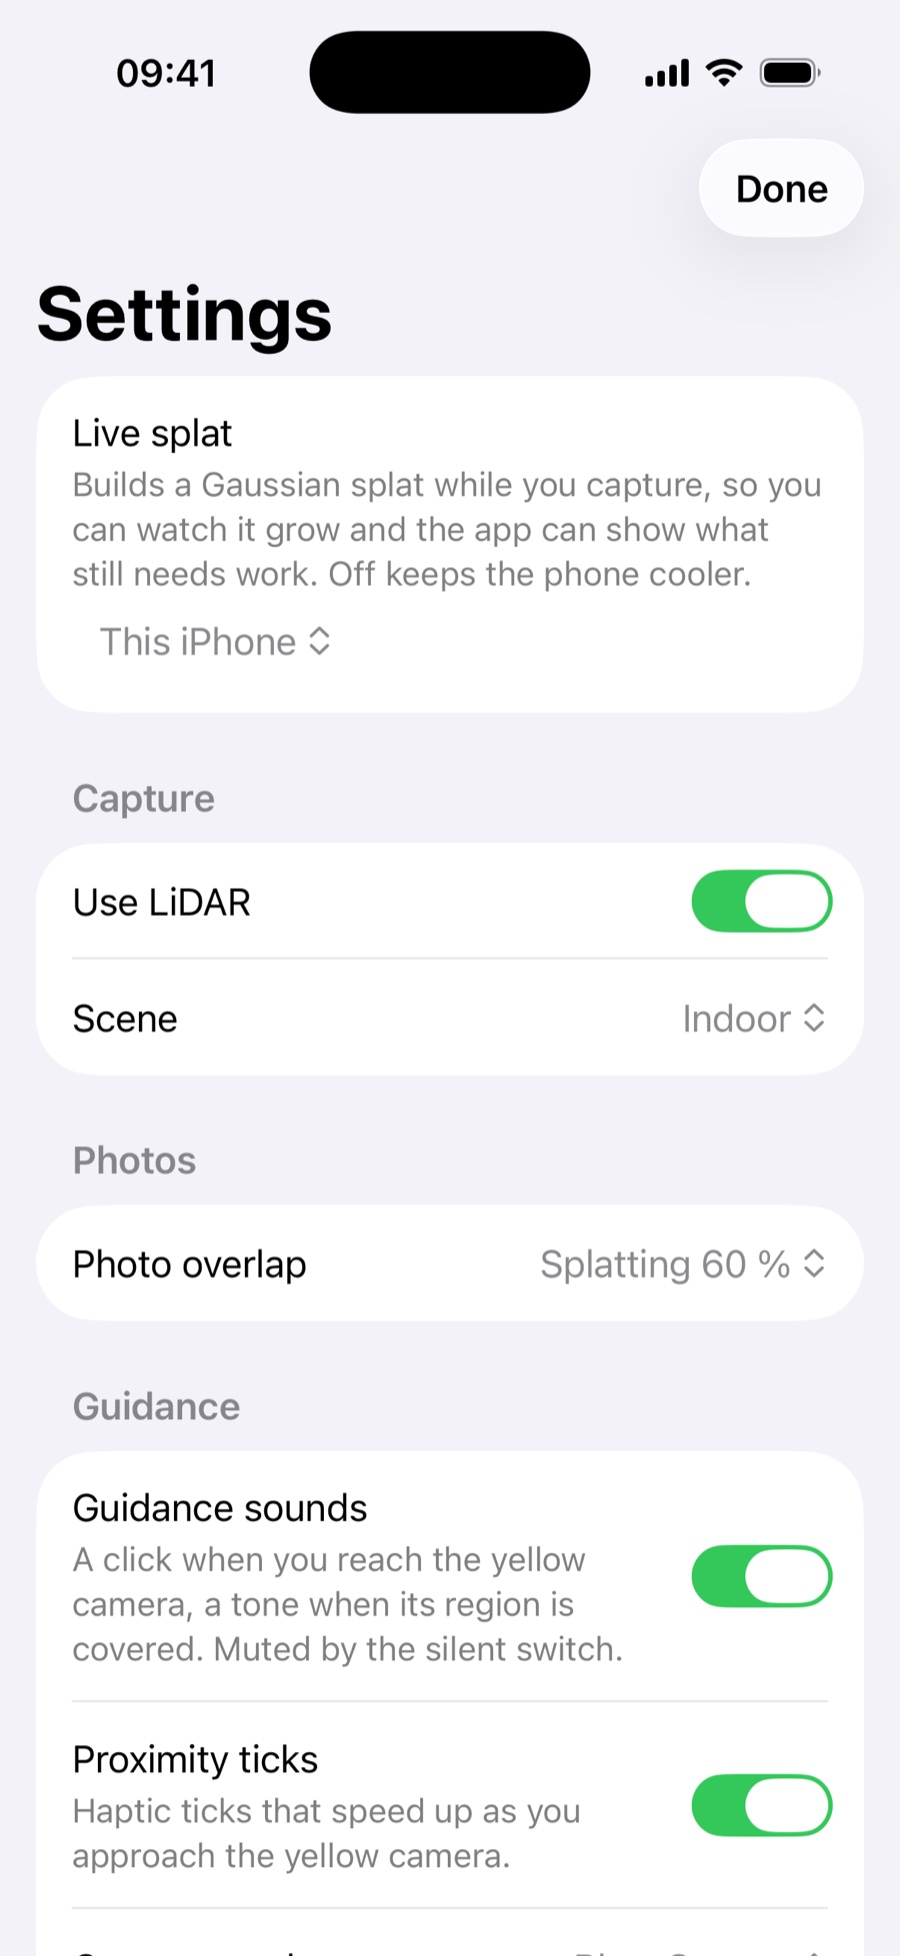
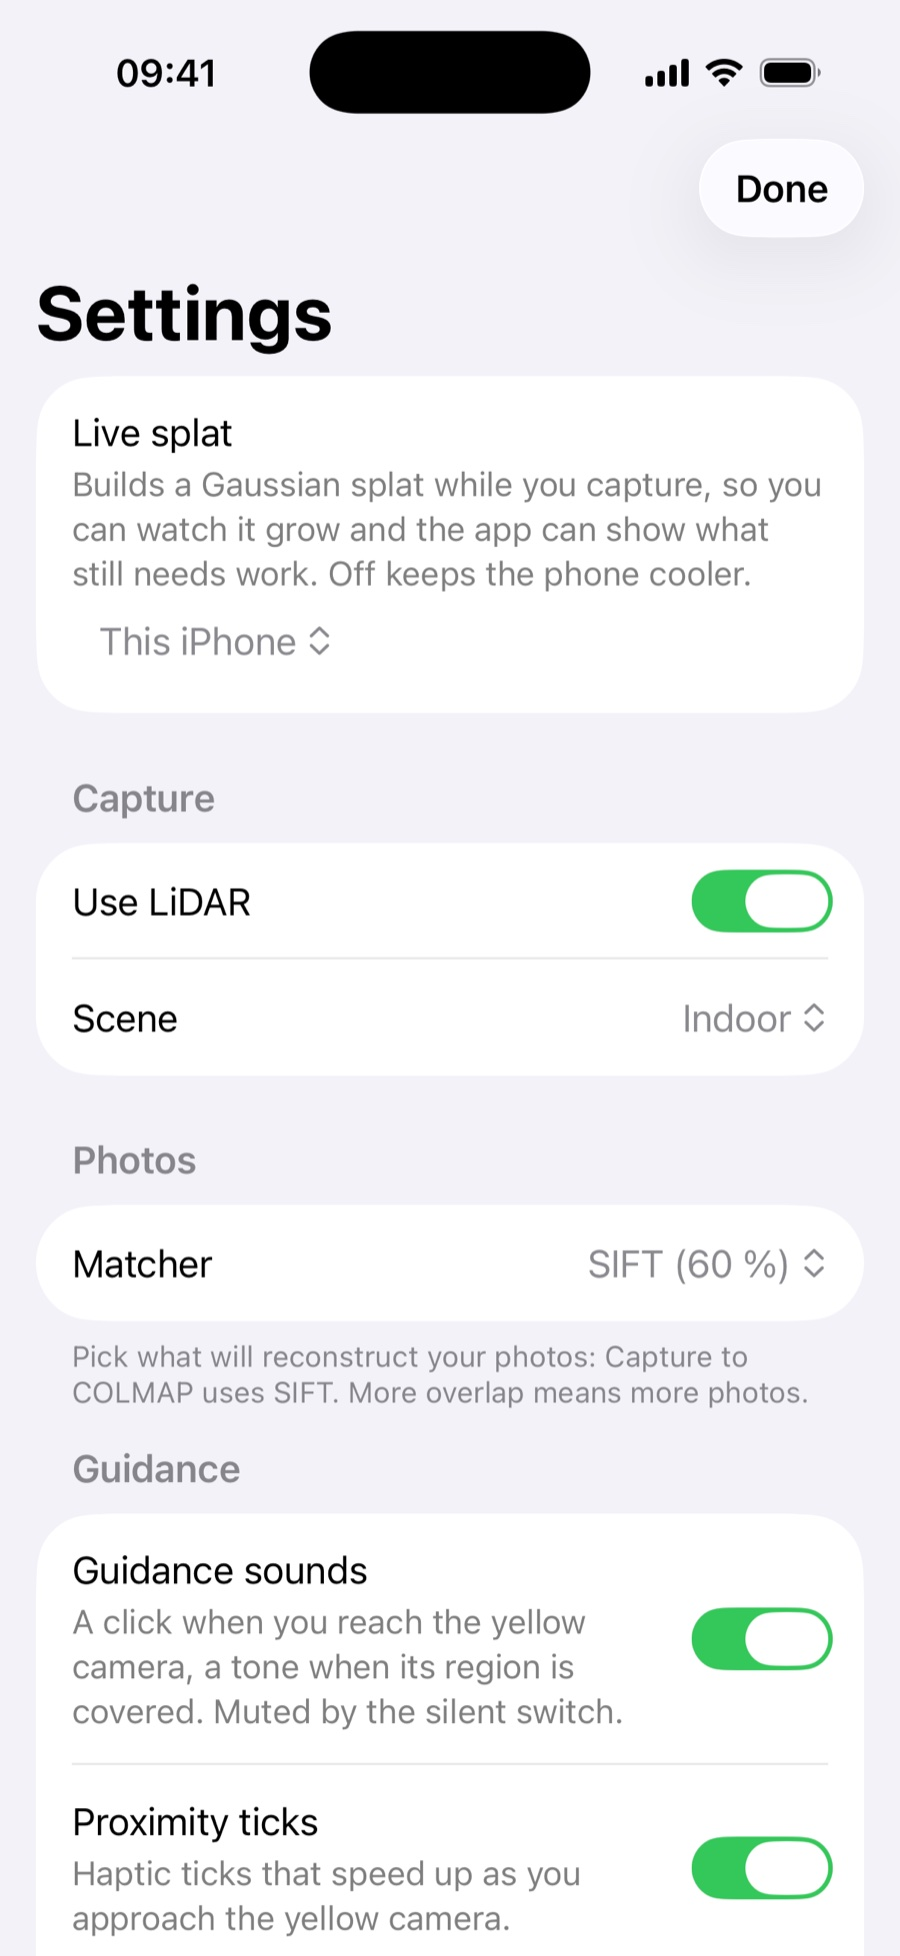
Publish 6ccf19d

diff --git a/capturing/index.html b/capturing/index.html
@@ -746,17 +746,17 @@
 <summary>Details</summary>
 <ul>
 <li>A turn on the spot adds a frame now and then, which keeps the keyframes linked.</li>
-<li>By default a keyframe is taken when the view shares about 60 % or less with the last one (<a href="../getting-started/#other-settings">Photo overlap</a> in Settings, behind the gear at the bottom right of the camera screen), or after a turn of about 10 degrees.</li>
+<li>By default a keyframe is taken when the view shares about 60 % or less with the last one (<a href="../getting-started/#other-settings">Matcher</a> in Settings, behind the gear at the bottom right of the camera screen), or after a turn of about 10 degrees.</li>
 <li>"The same way" means within about 10 degrees. "Close" scales with how far away the surfaces are, from 5 cm up to 30 cm.</li>
 </ul>
 </details>
 <h2 id="walking-pace-and-distance">Walking pace and distance</h2>
-<p>Walk slowly and keep the phone steady. Turning fast smears the image, worse in a dim room, and smeared frames are skipped: the count in the pill stops rising until you slow down. If you move too fast for a sharp photo while the app wants one, a yellow tortoise pill "Slow down" replaces the guidance line, with a soft tap. It goes away once a sharp photo is taken. The app does not enforce a distance to the surfaces; the guidance and the keyframe flashes show whether the phone is picking up your view.</p>
+<p>Walk slowly and keep the phone steady. Turning fast smears the image, worse in a dim room, and smeared frames are skipped: the count in the pill stops rising until you slow down. If you move too fast for a sharp photo while the app wants one, a yellow tortoise pill "Slow down" replaces the guidance line, with a soft tap. It goes away once a sharp photo is taken. After a fast turn the app may take a slightly softer photo, so the photos stay connected. The app does not enforce a distance to the surfaces; the guidance and the keyframe flashes show whether the phone is picking up your view.</p>
 <details class="note">
 <summary>Details</summary>
 <ul>
 <li>A dim room makes the smear worse because the camera exposes longer.</li>
-<li>The app measures how much each frame smears. A frame that smears by more than about 2 pixels is skipped.</li>
+<li>The app measures how much each frame smears from the phone's motion sensor. A frame that smears by more than about 3 pixels is skipped. Once the phone has turned about 25 degrees since the last keyframe, up to about 6 pixels is accepted.</li>
 </ul>
 </details>
 <h2 id="angles">Angles</h2>

diff --git a/getting-started/index.html b/getting-started/index.html
@@ -748,7 +748,7 @@
 <li data-anchor="live-splat" data-side="r"><a href="#live-splat"><strong>Live splat</strong></a>: where the 3D model is built.</li>
 <li data-anchor="use-lidar" data-side="r"><a href="#requirements"><strong>Use LiDAR</strong></a>: on by default; greyed out without the sensor.</li>
 <li data-anchor="scene" data-side="r"><a href="#other-settings"><strong>Scene</strong></a>: "Indoor" or "Outdoor".</li>
-<li data-anchor="photo-overlap" data-side="r"><a href="#other-settings"><strong>Photo overlap</strong></a>: how much a new keyframe may share with the last.</li>
+<li data-anchor="photo-overlap" data-side="r"><a href="#other-settings"><strong>Matcher</strong></a>: what will reconstruct your photos; sets how much a new keyframe shares with the last.</li>
 <li data-anchor="guidance-sounds" data-side="r"><a href="../guidance/#guidance-sounds-and-taps"><strong>Guidance sounds</strong></a>: a click and a tone for the targets.</li>
 <li data-anchor="proximity-ticks" data-side="r"><a href="../guidance/#guidance-sounds-and-taps"><strong>Proximity ticks</strong></a>: taps that speed up near the yellow camera.</li>
 </ol>
@@ -769,7 +769,13 @@
 <h3 id="other-settings">Other settings</h3>
 <ul>
 <li><strong>Scene</strong>: "Outdoor" is for scenes that reach far away.</li>
-<li><strong>Photo overlap</strong>: "Splatting 60 %" is the default; "SfM-safe 72 %" takes more photos, which suits photogrammetry software.</li>
+<li><strong>Matcher</strong> (under Photos): pick the software that will reconstruct your photos. More overlap means more photos.<ul>
+<li>"SIFT (60 %)" is the default and suits Capture to COLMAP, which uses SIFT.</li>
+<li>"SIFT — more overlap (72 %)" takes more photos, for hard scenes or other photogrammetry software.</li>
+<li>"ALIKED (35 %)" takes the fewest photos, for software that matches with ALIKED and LightGlue.</li>
+<li>"Custom" shows a slider from 25 to 85 %.</li>
+</ul>
+</li>
 <li><strong>Coverage colours</strong> (under Guidance): the colours of the quality dots and the map, "Blue-Orange" by default or "Cividis", which runs from dark blue to yellow.</li>
 </ul>
 <details class="note">

diff --git a/troubleshooting/index.html b/troubleshooting/index.html
@@ -897,7 +897,7 @@
 <h2 id="keyframes-are-not-being-taken">Keyframes are not being taken</h2>
 <p>The frame count in the status pill stays where it is while you walk. Frames are too blurry, or you are standing still.</p>
 <ul>
-<li>Walk and turn more slowly. When you move too fast for a sharp photo, a yellow tortoise pill "Slow down" replaces the guidance line, with a soft tap. It goes away once a sharp photo is taken.</li>
+<li>Walk and turn more slowly. When you move too fast for a sharp photo, a yellow tortoise pill "Slow down" replaces the guidance line, with a soft tap. It goes away once a sharp photo is taken. After a fast turn the app may take a slightly softer photo, so the photos stay connected.</li>
 <li>Add light.</li>
 <li>Check the hand button on the side rail. With manual capture on, the app takes keyframes only when you tap the shutter.</li>
 </ul>

diff --git a/guidance/index.html b/guidance/index.html
@@ -892,7 +892,7 @@
 <details class="note">
 <summary>Details</summary>
 <ul>
-<li>The colour is the share of a keyframe's view that another keyframe also sees: "needs work" at 0 %, "good" at 72 %.</li>
+<li>The colour is the share of a keyframe's view that another keyframe also sees: "needs work" at 0 %, "good" at the overlap your <a href="../getting-started/#other-settings">Matcher</a> sets (60 % by default).</li>
 <li>A white pyramid means the app cannot judge that keyframe yet.</li>
 <li>A new segment clears them, because the old coordinate system is gone.</li>
 <li>They are on by default.</li>
